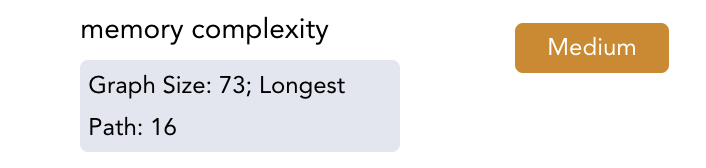
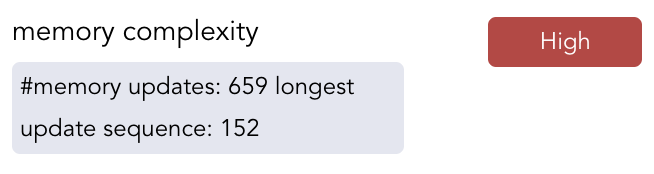
fixes

Changed region(s): [[0.0, 0.3571, 0.6422, 0.9226], [0.7034, 0.0893, 1.0, 0.4464], [0.0, 0.0893, 0.4893, 0.2679]]

diff --git a/docs/user-guide/out-of-resources/timeout.md b/docs/user-guide/out-of-resources/timeout.md
@@ -483,7 +483,7 @@ reduce the load on these mappings by splitting them into smaller pieces,
 (smaller mappings or scalar variables), but this is not always possible and some
 mappings usually remain in the final SMT formula.
 
-Under this model, the "#total updates" is a measure of how many times we store
+Under this model, the "memory updates" is a measure of how many times we store
 into a key-value mapping such as memory, storage, or a ghost function. The
 "longest update sequence" statistic represents the length the longest sequence
 of updates (i.e. store operations) performed on one of the mappings. In both
